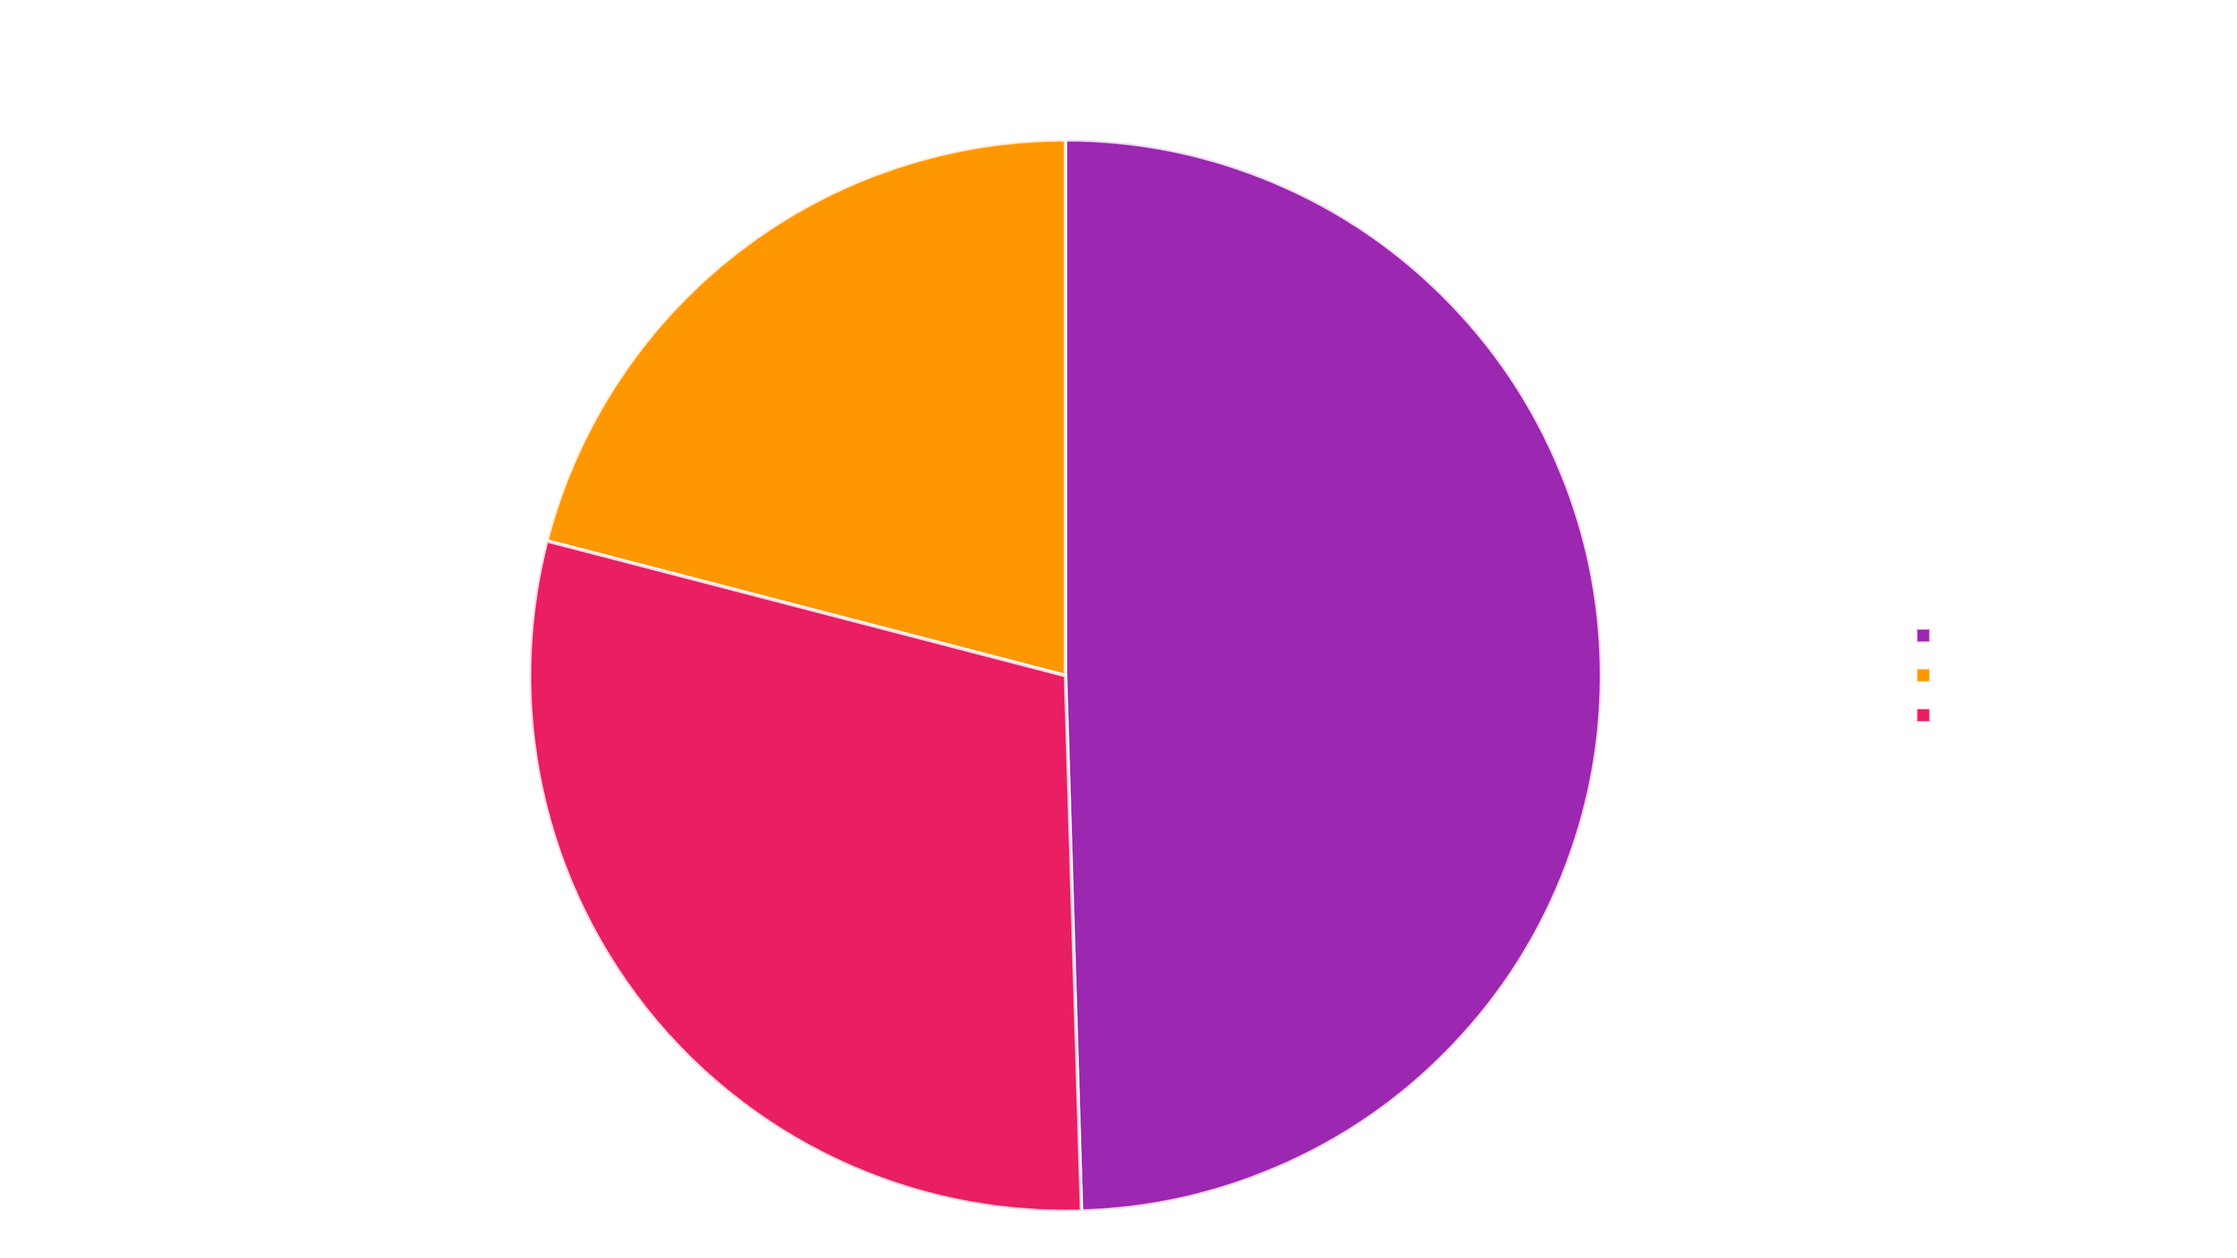
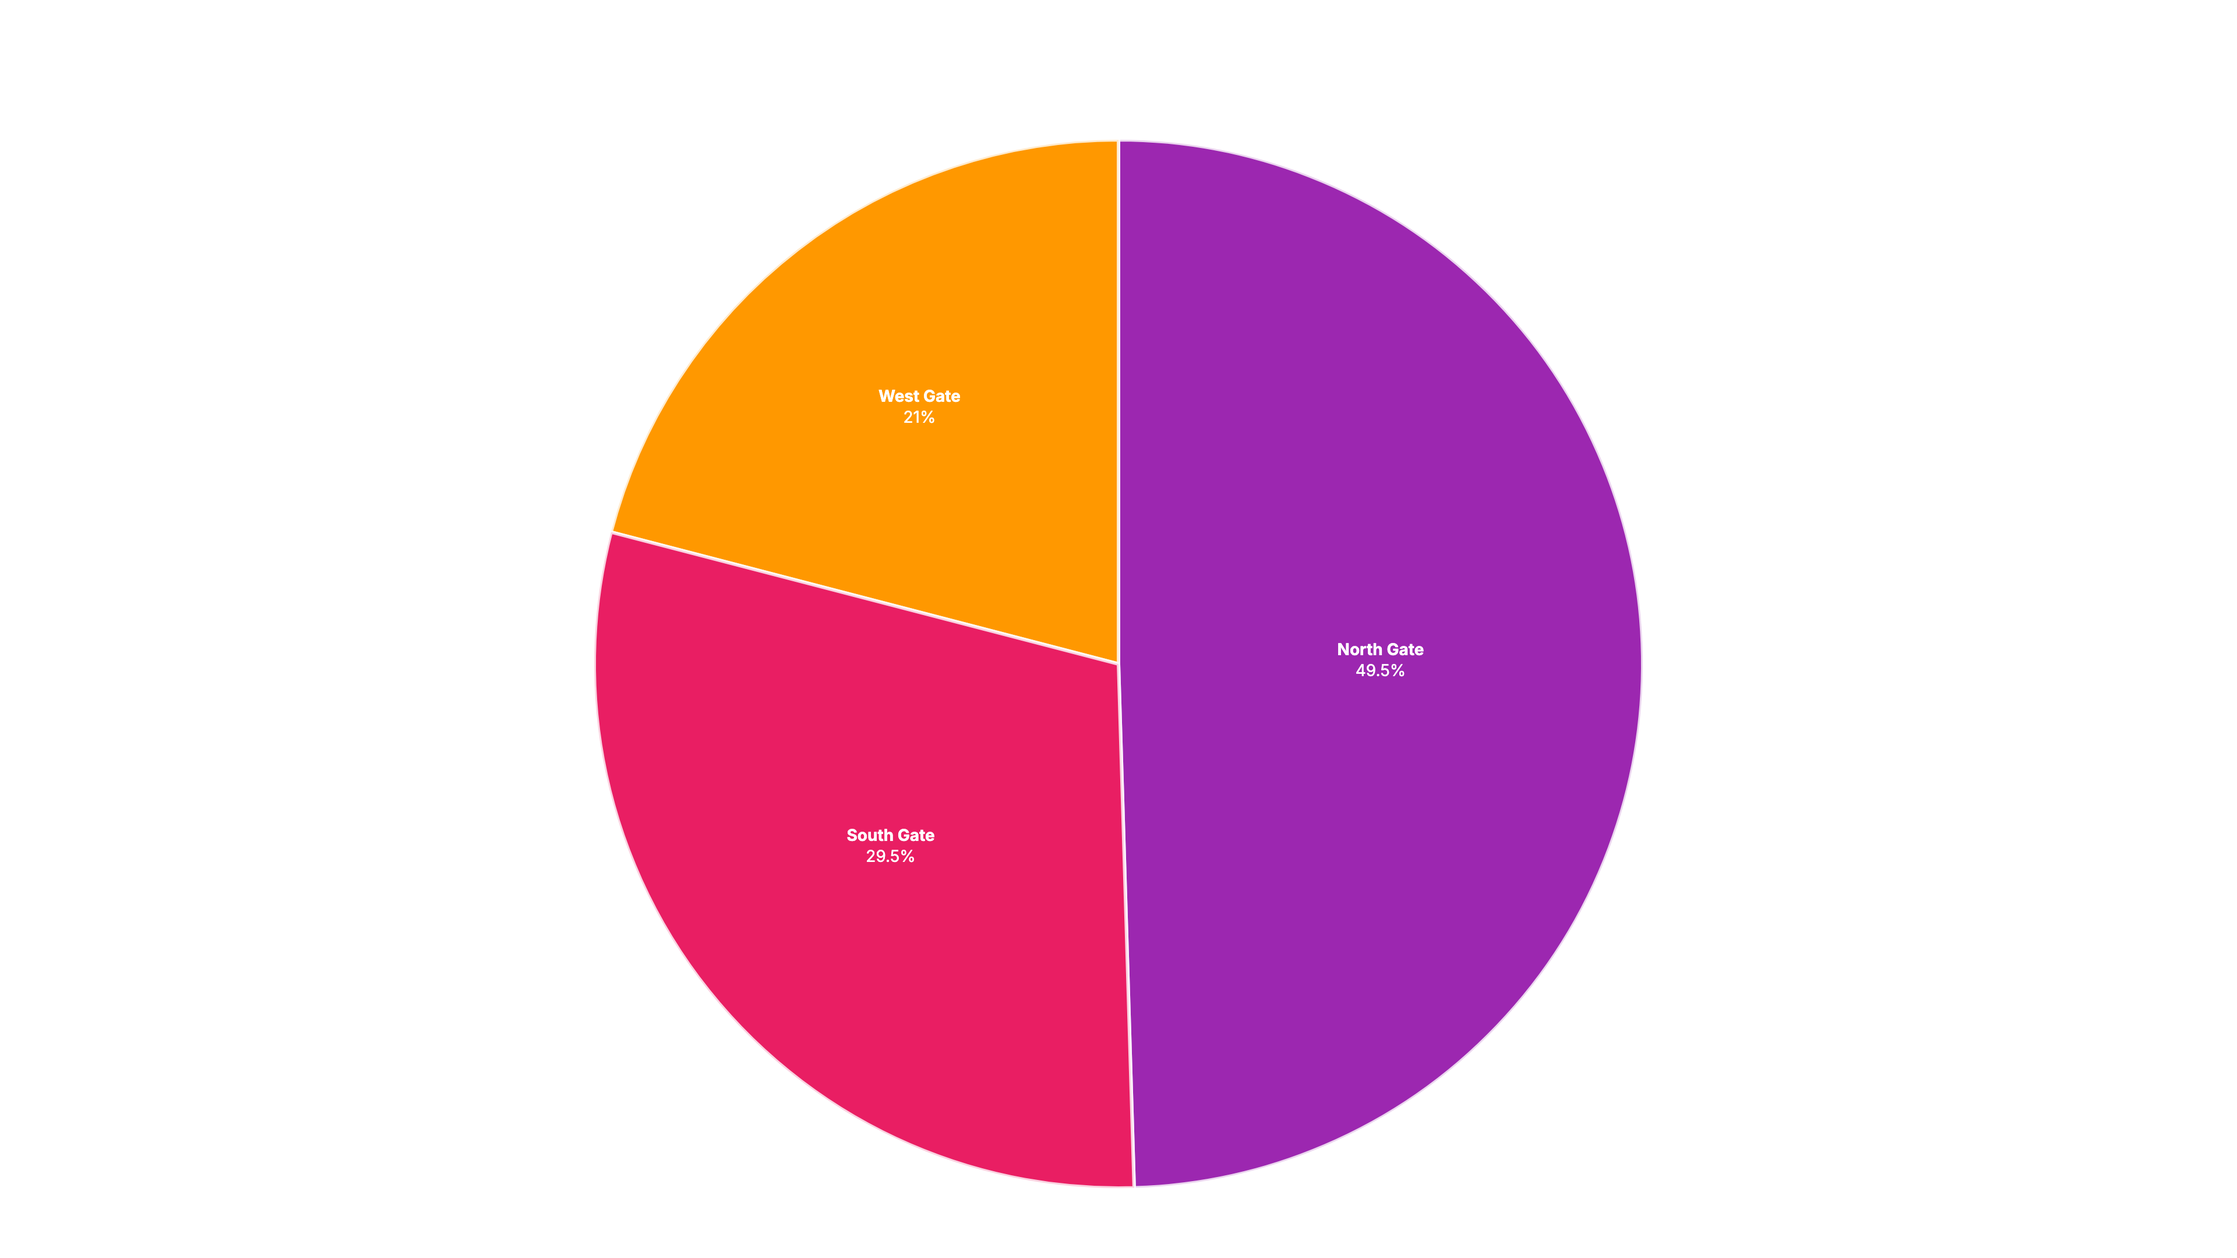
fix: remove legend from gate distribution which did not add info

diff --git a/outputs/gate_distribution.html b/outputs/gate_distribution.html
@@ -48,7 +48,7 @@
     <div id="plotly-div"></div>
     
     <script>
-        var figureJSON = {"data":[{"hole":0.0,"hovertemplate":"\u003cb\u003e%{label}\u003c\u002fb\u003e\u003cbr\u003eCount: %{value}\u003cbr\u003ePercentage: %{percent}\u003cextra\u003e\u003c\u002fextra\u003e","labels":["North Gate","West Gate","South Gate"],"marker":{"colors":["#9C27B0","#FF9800","#E91E63"],"line":{"color":"rgba(255,255,255,0.8)","width":3}},"sort":false,"textfont":{"color":"white","family":"Inter, system-ui, sans-serif","size":16},"textinfo":"label+percent","textposition":"outside","texttemplate":"\u003cb\u003e%{label}\u003c\u002fb\u003e\u003cbr\u003e%{percent}","values":[52,22,31],"type":"pie"}],"layout":{"template":{"data":{"histogram2dcontour":[{"type":"histogram2dcontour","colorbar":{"outlinewidth":0,"ticks":""},"colorscale":[[0.0,"#0d0887"],[0.1111111111111111,"#46039f"],[0.2222222222222222,"#7201a8"],[0.3333333333333333,"#9c179e"],[0.4444444444444444,"#bd3786"],[0.5555555555555556,"#d8576b"],[0.6666666666666666,"#ed7953"],[0.7777777777777778,"#fb9f3a"],[0.8888888888888888,"#fdca26"],[1.0,"#f0f921"]]}],"choropleth":[{"type":"choropleth","colorbar":{"outlinewidth":0,"ticks":""}}],"histogram2d":[{"type":"histogram2d","colorbar":{"outlinewidth":0,"ticks":""},"colorscale":[[0.0,"#0d0887"],[0.1111111111111111,"#46039f"],[0.2222222222222222,"#7201a8"],[0.3333333333333333,"#9c179e"],[0.4444444444444444,"#bd3786"],[0.5555555555555556,"#d8576b"],[0.6666666666666666,"#ed7953"],[0.7777777777777778,"#fb9f3a"],[0.8888888888888888,"#fdca26"],[1.0,"#f0f921"]]}],"heatmap":[{"type":"heatmap","colorbar":{"outlinewidth":0,"ticks":""},"colorscale":[[0.0,"#0d0887"],[0.1111111111111111,"#46039f"],[0.2222222222222222,"#7201a8"],[0.3333333333333333,"#9c179e"],[0.4444444444444444,"#bd3786"],[0.5555555555555556,"#d8576b"],[0.6666666666666666,"#ed7953"],[0.7777777777777778,"#fb9f3a"],[0.8888888888888888,"#fdca26"],[1.0,"#f0f921"]]}],"heatmapgl":[{"type":"heatmapgl","colorbar":{"outlinewidth":0,"ticks":""},"colorscale":[[0.0,"#0d0887"],[0.1111111111111111,"#46039f"],[0.2222222222222222,"#7201a8"],[0.3333333333333333,"#9c179e"],[0.4444444444444444,"#bd3786"],[0.5555555555555556,"#d8576b"],[0.6666666666666666,"#ed7953"],[0.7777777777777778,"#fb9f3a"],[0.8888888888888888,"#fdca26"],[1.0,"#f0f921"]]}],"contourcarpet":[{"type":"contourcarpet","colorbar":{"outlinewidth":0,"ticks":""}}],"contour":[{"type":"contour","colorbar":{"outlinewidth":0,"ticks":""},"colorscale":[[0.0,"#0d0887"],[0.1111111111111111,"#46039f"],[0.2222222222222222,"#7201a8"],[0.3333333333333333,"#9c179e"],[0.4444444444444444,"#bd3786"],[0.5555555555555556,"#d8576b"],[0.6666666666666666,"#ed7953"],[0.7777777777777778,"#fb9f3a"],[0.8888888888888888,"#fdca26"],[1.0,"#f0f921"]]}],"surface":[{"type":"surface","colorbar":{"outlinewidth":0,"ticks":""},"colorscale":[[0.0,"#0d0887"],[0.1111111111111111,"#46039f"],[0.2222222222222222,"#7201a8"],[0.3333333333333333,"#9c179e"],[0.4444444444444444,"#bd3786"],[0.5555555555555556,"#d8576b"],[0.6666666666666666,"#ed7953"],[0.7777777777777778,"#fb9f3a"],[0.8888888888888888,"#fdca26"],[1.0,"#f0f921"]]}],"mesh3d":[{"type":"mesh3d","colorbar":{"outlinewidth":0,"ticks":""}}],"scatter":[{"fillpattern":{"fillmode":"overlay","size":10,"solidity":0.2},"type":"scatter"}],"parcoords":[{"type":"parcoords","line":{"colorbar":{"outlinewidth":0,"ticks":""}}}],"scatterpolargl":[{"type":"scatterpolargl","marker":{"colorbar":{"outlinewidth":0,"ticks":""}}}],"bar":[{"error_x":{"color":"#2a3f5f"},"error_y":{"color":"#2a3f5f"},"marker":{"line":{"color":"#E5ECF6","width":0.5},"pattern":{"fillmode":"overlay","size":10,"solidity":0.2}},"type":"bar"}],"scattergeo":[{"type":"scattergeo","marker":{"colorbar":{"outlinewidth":0,"ticks":""}}}],"scatterpolar":[{"type":"scatterpolar","marker":{"colorbar":{"outlinewidth":0,"ticks":""}}}],"histogram":[{"marker":{"pattern":{"fillmode":"overlay","size":10,"solidity":0.2}},"type":"histogram"}],"scattergl":[{"type":"scattergl","marker":{"colorbar":{"outlinewidth":0,"ticks":""}}}],"scatter3d":[{"type":"scatter3d","line":{"colorbar":{"outlinewidth":0,"ticks":""}},"marker":{"colorbar":{"outlinewidth":0,"ticks":""}}}],"scattermapbox":[{"type":"scattermapbox","marker":{"colorbar":{"outlinewidth":0,"ticks":""}}}],"scatterternary":[{"type":"scatterternary","marker":{"colorbar":{"outlinewidth":0,"ticks":""}}}],"scattercarpet":[{"type":"scattercarpet","marker":{"colorbar":{"outlinewidth":0,"ticks":""}}}],"carpet":[{"aaxis":{"endlinecolor":"#2a3f5f","gridcolor":"white","linecolor":"white","minorgridcolor":"white","startlinecolor":"#2a3f5f"},"baxis":{"endlinecolor":"#2a3f5f","gridcolor":"white","linecolor":"white","minorgridcolor":"white","startlinecolor":"#2a3f5f"},"type":"carpet"}],"table":[{"cells":{"fill":{"color":"#EBF0F8"},"line":{"color":"white"}},"header":{"fill":{"color":"#C8D4E3"},"line":{"color":"white"}},"type":"table"}],"barpolar":[{"marker":{"line":{"color":"#E5ECF6","width":0.5},"pattern":{"fillmode":"overlay","size":10,"solidity":0.2}},"type":"barpolar"}],"pie":[{"automargin":true,"type":"pie"}]},"layout":{"autotypenumbers":"strict","colorway":["#636efa","#EF553B","#00cc96","#ab63fa","#FFA15A","#19d3f3","#FF6692","#B6E880","#FF97FF","#FECB52"],"font":{"color":"#2a3f5f"},"hovermode":"closest","hoverlabel":{"align":"left"},"paper_bgcolor":"white","plot_bgcolor":"#E5ECF6","polar":{"bgcolor":"#E5ECF6","angularaxis":{"gridcolor":"white","linecolor":"white","ticks":""},"radialaxis":{"gridcolor":"white","linecolor":"white","ticks":""}},"ternary":{"bgcolor":"#E5ECF6","aaxis":{"gridcolor":"white","linecolor":"white","ticks":""},"baxis":{"gridcolor":"white","linecolor":"white","ticks":""},"caxis":{"gridcolor":"white","linecolor":"white","ticks":""}},"coloraxis":{"colorbar":{"outlinewidth":0,"ticks":""}},"colorscale":{"sequential":[[0.0,"#0d0887"],[0.1111111111111111,"#46039f"],[0.2222222222222222,"#7201a8"],[0.3333333333333333,"#9c179e"],[0.4444444444444444,"#bd3786"],[0.5555555555555556,"#d8576b"],[0.6666666666666666,"#ed7953"],[0.7777777777777778,"#fb9f3a"],[0.8888888888888888,"#fdca26"],[1.0,"#f0f921"]],"sequentialminus":[[0.0,"#0d0887"],[0.1111111111111111,"#46039f"],[0.2222222222222222,"#7201a8"],[0.3333333333333333,"#9c179e"],[0.4444444444444444,"#bd3786"],[0.5555555555555556,"#d8576b"],[0.6666666666666666,"#ed7953"],[0.7777777777777778,"#fb9f3a"],[0.8888888888888888,"#fdca26"],[1.0,"#f0f921"]],"diverging":[[0,"#8e0152"],[0.1,"#c51b7d"],[0.2,"#de77ae"],[0.3,"#f1b6da"],[0.4,"#fde0ef"],[0.5,"#f7f7f7"],[0.6,"#e6f5d0"],[0.7,"#b8e186"],[0.8,"#7fbc41"],[0.9,"#4d9221"],[1,"#276419"]]},"xaxis":{"gridcolor":"white","linecolor":"white","ticks":"","title":{"standoff":15},"zerolinecolor":"white","automargin":true,"zerolinewidth":2},"yaxis":{"gridcolor":"white","linecolor":"white","ticks":"","title":{"standoff":15},"zerolinecolor":"white","automargin":true,"zerolinewidth":2},"scene":{"xaxis":{"backgroundcolor":"#E5ECF6","gridcolor":"white","linecolor":"white","showbackground":true,"ticks":"","zerolinecolor":"white","gridwidth":2},"yaxis":{"backgroundcolor":"#E5ECF6","gridcolor":"white","linecolor":"white","showbackground":true,"ticks":"","zerolinecolor":"white","gridwidth":2},"zaxis":{"backgroundcolor":"#E5ECF6","gridcolor":"white","linecolor":"white","showbackground":true,"ticks":"","zerolinecolor":"white","gridwidth":2}},"shapedefaults":{"line":{"color":"#2a3f5f"}},"annotationdefaults":{"arrowcolor":"#2a3f5f","arrowhead":0,"arrowwidth":1},"geo":{"bgcolor":"white","landcolor":"#E5ECF6","subunitcolor":"white","showland":true,"showlakes":true,"lakecolor":"white"},"title":{"x":0.05},"mapbox":{"style":"light"}}},"title":{"font":{"size":32,"color":"white","family":"Inter, system-ui, sans-serif"},"text":"Campus Gate Distribution","x":0.5,"xanchor":"center"},"font":{"color":"white","size":14,"family":"Inter, system-ui, sans-serif"},"hoverlabel":{"font":{"size":14,"family":"Inter, system-ui, sans-serif"},"bgcolor":"rgba(15,15,15,0.95)","bordercolor":"rgba(255,255,255,0.3)"},"margin":{"l":80,"r":180,"t":120,"b":40},"legend":{"font":{"size":24,"color":"white","family":"Inter, system-ui, sans-serif"},"orientation":"v","yanchor":"middle","y":0.5,"xanchor":"left","x":1.01,"bgcolor":"rgba(255,255,255,0.1)","bordercolor":"rgba(255,255,255,0.3)","borderwidth":2,"itemsizing":"constant","itemwidth":60},"plot_bgcolor":"rgba(0,0,0,0)","paper_bgcolor":"rgba(0,0,0,0)","autosize":true,"showlegend":true}};
+        var figureJSON = {"data":[{"hole":0.0,"hovertemplate":"\u003cb\u003e%{label}\u003c\u002fb\u003e\u003cbr\u003eCount: %{value}\u003cbr\u003ePercentage: %{percent}\u003cextra\u003e\u003c\u002fextra\u003e","labels":["North Gate","West Gate","South Gate"],"marker":{"colors":["#9C27B0","#FF9800","#E91E63"],"line":{"color":"rgba(255,255,255,0.8)","width":3}},"sort":false,"textfont":{"color":"white","family":"Inter, system-ui, sans-serif","size":14},"textinfo":"label+percent","textposition":"auto","texttemplate":"\u003cb\u003e%{label}\u003c\u002fb\u003e\u003cbr\u003e%{percent}","values":[52,22,31],"type":"pie","automargin":true}],"layout":{"template":{"data":{"histogram2dcontour":[{"type":"histogram2dcontour","colorbar":{"outlinewidth":0,"ticks":""},"colorscale":[[0.0,"#0d0887"],[0.1111111111111111,"#46039f"],[0.2222222222222222,"#7201a8"],[0.3333333333333333,"#9c179e"],[0.4444444444444444,"#bd3786"],[0.5555555555555556,"#d8576b"],[0.6666666666666666,"#ed7953"],[0.7777777777777778,"#fb9f3a"],[0.8888888888888888,"#fdca26"],[1.0,"#f0f921"]]}],"choropleth":[{"type":"choropleth","colorbar":{"outlinewidth":0,"ticks":""}}],"histogram2d":[{"type":"histogram2d","colorbar":{"outlinewidth":0,"ticks":""},"colorscale":[[0.0,"#0d0887"],[0.1111111111111111,"#46039f"],[0.2222222222222222,"#7201a8"],[0.3333333333333333,"#9c179e"],[0.4444444444444444,"#bd3786"],[0.5555555555555556,"#d8576b"],[0.6666666666666666,"#ed7953"],[0.7777777777777778,"#fb9f3a"],[0.8888888888888888,"#fdca26"],[1.0,"#f0f921"]]}],"heatmap":[{"type":"heatmap","colorbar":{"outlinewidth":0,"ticks":""},"colorscale":[[0.0,"#0d0887"],[0.1111111111111111,"#46039f"],[0.2222222222222222,"#7201a8"],[0.3333333333333333,"#9c179e"],[0.4444444444444444,"#bd3786"],[0.5555555555555556,"#d8576b"],[0.6666666666666666,"#ed7953"],[0.7777777777777778,"#fb9f3a"],[0.8888888888888888,"#fdca26"],[1.0,"#f0f921"]]}],"contourcarpet":[{"type":"contourcarpet","colorbar":{"outlinewidth":0,"ticks":""}}],"contour":[{"type":"contour","colorbar":{"outlinewidth":0,"ticks":""},"colorscale":[[0.0,"#0d0887"],[0.1111111111111111,"#46039f"],[0.2222222222222222,"#7201a8"],[0.3333333333333333,"#9c179e"],[0.4444444444444444,"#bd3786"],[0.5555555555555556,"#d8576b"],[0.6666666666666666,"#ed7953"],[0.7777777777777778,"#fb9f3a"],[0.8888888888888888,"#fdca26"],[1.0,"#f0f921"]]}],"surface":[{"type":"surface","colorbar":{"outlinewidth":0,"ticks":""},"colorscale":[[0.0,"#0d0887"],[0.1111111111111111,"#46039f"],[0.2222222222222222,"#7201a8"],[0.3333333333333333,"#9c179e"],[0.4444444444444444,"#bd3786"],[0.5555555555555556,"#d8576b"],[0.6666666666666666,"#ed7953"],[0.7777777777777778,"#fb9f3a"],[0.8888888888888888,"#fdca26"],[1.0,"#f0f921"]]}],"mesh3d":[{"type":"mesh3d","colorbar":{"outlinewidth":0,"ticks":""}}],"scatter":[{"fillpattern":{"fillmode":"overlay","size":10,"solidity":0.2},"type":"scatter"}],"parcoords":[{"type":"parcoords","line":{"colorbar":{"outlinewidth":0,"ticks":""}}}],"scatterpolargl":[{"type":"scatterpolargl","marker":{"colorbar":{"outlinewidth":0,"ticks":""}}}],"bar":[{"error_x":{"color":"#2a3f5f"},"error_y":{"color":"#2a3f5f"},"marker":{"line":{"color":"#E5ECF6","width":0.5},"pattern":{"fillmode":"overlay","size":10,"solidity":0.2}},"type":"bar"}],"scattergeo":[{"type":"scattergeo","marker":{"colorbar":{"outlinewidth":0,"ticks":""}}}],"scatterpolar":[{"type":"scatterpolar","marker":{"colorbar":{"outlinewidth":0,"ticks":""}}}],"histogram":[{"marker":{"pattern":{"fillmode":"overlay","size":10,"solidity":0.2}},"type":"histogram"}],"scattergl":[{"type":"scattergl","marker":{"colorbar":{"outlinewidth":0,"ticks":""}}}],"scatter3d":[{"type":"scatter3d","line":{"colorbar":{"outlinewidth":0,"ticks":""}},"marker":{"colorbar":{"outlinewidth":0,"ticks":""}}}],"scattermap":[{"type":"scattermap","marker":{"colorbar":{"outlinewidth":0,"ticks":""}}}],"scattermapbox":[{"type":"scattermapbox","marker":{"colorbar":{"outlinewidth":0,"ticks":""}}}],"scatterternary":[{"type":"scatterternary","marker":{"colorbar":{"outlinewidth":0,"ticks":""}}}],"scattercarpet":[{"type":"scattercarpet","marker":{"colorbar":{"outlinewidth":0,"ticks":""}}}],"carpet":[{"aaxis":{"endlinecolor":"#2a3f5f","gridcolor":"white","linecolor":"white","minorgridcolor":"white","startlinecolor":"#2a3f5f"},"baxis":{"endlinecolor":"#2a3f5f","gridcolor":"white","linecolor":"white","minorgridcolor":"white","startlinecolor":"#2a3f5f"},"type":"carpet"}],"table":[{"cells":{"fill":{"color":"#EBF0F8"},"line":{"color":"white"}},"header":{"fill":{"color":"#C8D4E3"},"line":{"color":"white"}},"type":"table"}],"barpolar":[{"marker":{"line":{"color":"#E5ECF6","width":0.5},"pattern":{"fillmode":"overlay","size":10,"solidity":0.2}},"type":"barpolar"}],"pie":[{"automargin":true,"type":"pie"}]},"layout":{"autotypenumbers":"strict","colorway":["#636efa","#EF553B","#00cc96","#ab63fa","#FFA15A","#19d3f3","#FF6692","#B6E880","#FF97FF","#FECB52"],"font":{"color":"#2a3f5f"},"hovermode":"closest","hoverlabel":{"align":"left"},"paper_bgcolor":"white","plot_bgcolor":"#E5ECF6","polar":{"bgcolor":"#E5ECF6","angularaxis":{"gridcolor":"white","linecolor":"white","ticks":""},"radialaxis":{"gridcolor":"white","linecolor":"white","ticks":""}},"ternary":{"bgcolor":"#E5ECF6","aaxis":{"gridcolor":"white","linecolor":"white","ticks":""},"baxis":{"gridcolor":"white","linecolor":"white","ticks":""},"caxis":{"gridcolor":"white","linecolor":"white","ticks":""}},"coloraxis":{"colorbar":{"outlinewidth":0,"ticks":""}},"colorscale":{"sequential":[[0.0,"#0d0887"],[0.1111111111111111,"#46039f"],[0.2222222222222222,"#7201a8"],[0.3333333333333333,"#9c179e"],[0.4444444444444444,"#bd3786"],[0.5555555555555556,"#d8576b"],[0.6666666666666666,"#ed7953"],[0.7777777777777778,"#fb9f3a"],[0.8888888888888888,"#fdca26"],[1.0,"#f0f921"]],"sequentialminus":[[0.0,"#0d0887"],[0.1111111111111111,"#46039f"],[0.2222222222222222,"#7201a8"],[0.3333333333333333,"#9c179e"],[0.4444444444444444,"#bd3786"],[0.5555555555555556,"#d8576b"],[0.6666666666666666,"#ed7953"],[0.7777777777777778,"#fb9f3a"],[0.8888888888888888,"#fdca26"],[1.0,"#f0f921"]],"diverging":[[0,"#8e0152"],[0.1,"#c51b7d"],[0.2,"#de77ae"],[0.3,"#f1b6da"],[0.4,"#fde0ef"],[0.5,"#f7f7f7"],[0.6,"#e6f5d0"],[0.7,"#b8e186"],[0.8,"#7fbc41"],[0.9,"#4d9221"],[1,"#276419"]]},"xaxis":{"gridcolor":"white","linecolor":"white","ticks":"","title":{"standoff":15},"zerolinecolor":"white","automargin":true,"zerolinewidth":2},"yaxis":{"gridcolor":"white","linecolor":"white","ticks":"","title":{"standoff":15},"zerolinecolor":"white","automargin":true,"zerolinewidth":2},"scene":{"xaxis":{"backgroundcolor":"#E5ECF6","gridcolor":"white","linecolor":"white","showbackground":true,"ticks":"","zerolinecolor":"white","gridwidth":2},"yaxis":{"backgroundcolor":"#E5ECF6","gridcolor":"white","linecolor":"white","showbackground":true,"ticks":"","zerolinecolor":"white","gridwidth":2},"zaxis":{"backgroundcolor":"#E5ECF6","gridcolor":"white","linecolor":"white","showbackground":true,"ticks":"","zerolinecolor":"white","gridwidth":2}},"shapedefaults":{"line":{"color":"#2a3f5f"}},"annotationdefaults":{"arrowcolor":"#2a3f5f","arrowhead":0,"arrowwidth":1},"geo":{"bgcolor":"white","landcolor":"#E5ECF6","subunitcolor":"white","showland":true,"showlakes":true,"lakecolor":"white"},"title":{"x":0.05},"mapbox":{"style":"light"}}},"title":{"font":{"size":32,"color":"white","family":"Inter, system-ui, sans-serif"},"text":"Campus Gate Distribution","x":0.5,"xanchor":"center"},"font":{"color":"white","size":14,"family":"Inter, system-ui, sans-serif"},"hoverlabel":{"font":{"size":14,"family":"Inter, system-ui, sans-serif"},"bgcolor":"rgba(15,15,15,0.95)","bordercolor":"rgba(255,255,255,0.3)"},"margin":{"l":60,"r":60,"t":120,"b":60},"legend":{"font":{"size":24,"color":"white","family":"Inter, system-ui, sans-serif"},"orientation":"v","yanchor":"middle","y":0.5,"xanchor":"left","x":1.01,"bgcolor":"rgba(255,255,255,0.1)","bordercolor":"rgba(255,255,255,0.3)","borderwidth":2,"itemsizing":"constant","itemwidth":60},"plot_bgcolor":"rgba(0,0,0,0)","paper_bgcolor":"rgba(0,0,0,0)","autosize":true,"showlegend":false,"uniformtext":{"minsize":11,"mode":"hide"}}};
         
         var config = {
             displayModeBar: true,

diff --git a/src/viz_gate_distribution.py b/src/viz_gate_distribution.py
@@ -53,13 +53,28 @@ def create_gate_pie_chart(gate_data: dict) -> go.Figure:
     values = list(gate_data.values())
     colors = [gate_colors.get(gate, "#9E9E9E") for gate in gates]
 
-    return chart_builder.create_pie_chart(
+    fig = chart_builder.create_pie_chart(
         labels=gates,
         values=values,
         title="Campus Gate Distribution",
         colors=colors,
         hole=0.0,  # Full pie (not donut)
     )
+
+    # Keep gate labels readable in embedded modal sizes.
+    fig.update_traces(
+        textposition="auto",
+        automargin=True,
+        textfont=dict(size=14, color="white", family=styling.FONT_FAMILY),
+    )
+
+    fig.update_layout(
+        margin=dict(l=60, r=60, t=120, b=60),
+        uniformtext=dict(minsize=11, mode="hide"),
+        showlegend=False,
+    )
+
+    return fig
 
 
 def main():
